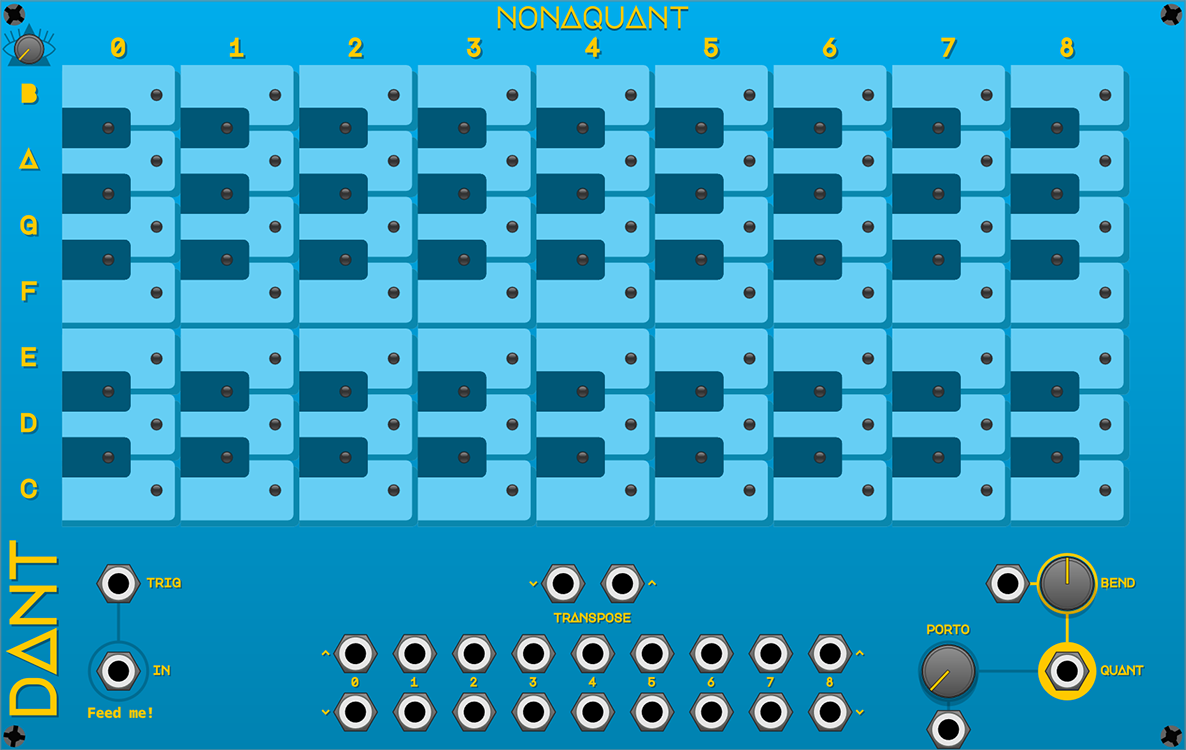
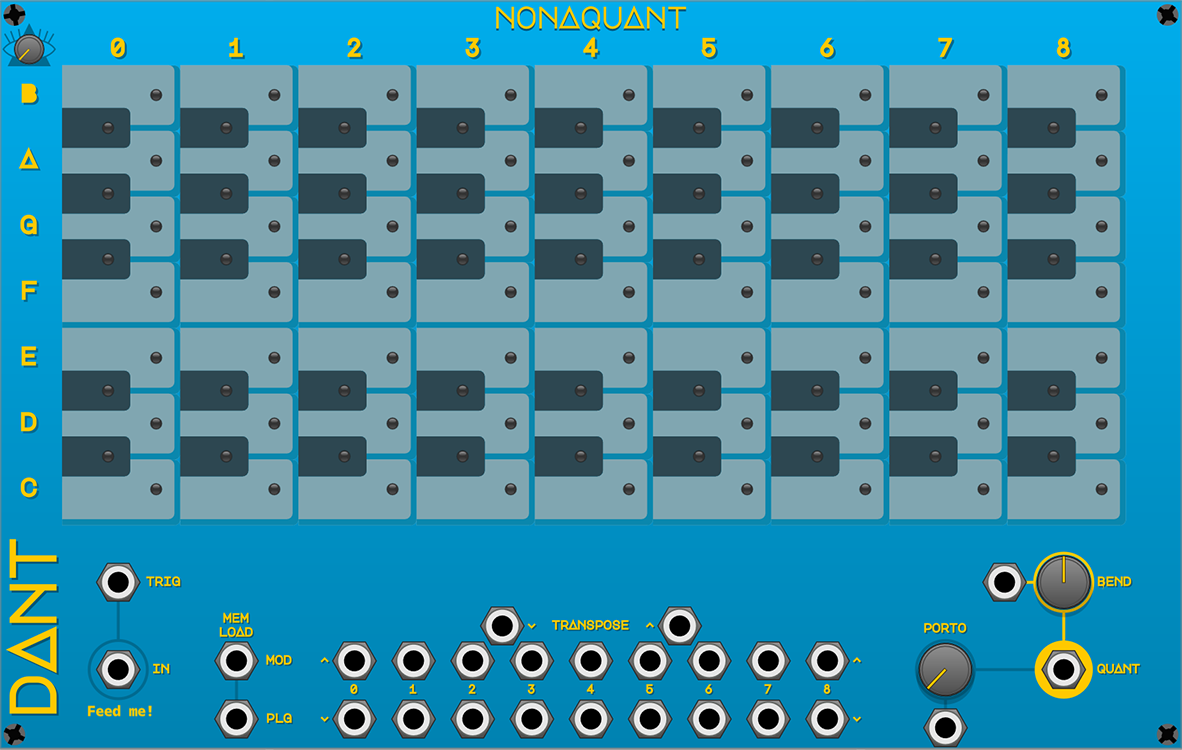
v2.3.3 docs update

diff --git a/README.md b/README.md
@@ -1,4 +1,13 @@
-# DanTModules v2.3.2
+# DanTModules v2.3.3
+
+* [Overview](#overview)
+* [Common Controls & Concepts](#common-controls--concepts)
+  * [Global Plugin Settings](#global-plugin-settings)
+  * [Themes](#themes)
+  * [CV Param Mode](#cv-param-mode)
+  * [CV Input Slew](#cv-input-slew)
+  * [Clamp CV Values](#clamp-cv-values)
+* [Modules](#modules)
 
 ![DanTModules](img/dantmodules.png)
 
@@ -14,6 +23,80 @@ I would love to see anything you create with this plugin, tag your creations wit
 
 If you feel generous or want to motivate me to further develop this plugin, you may [donate here](https://monzo.me/danieltilley2).
 
+## Common Controls & Concepts
+
+### Global Plugin Settings
+
+Some modules in the plugin have the ability to save a setting as default, this will determine its value when adding the module to a patch in future
+
+Settings like this will be saved to a `Rack2\DanTModules.json` file
+
+You can edit this file directly to change the default settings, though do ensure the edits are valid JSON
+
+You can also delete the file to reset the plugin defaults
+
+### Themes
+
+All modules in the plugin (except Chromakey) have a right-click context menu option where the module and plugin default theme can be selected
+
+The plugin default theme is saved to `DanTModules.json` under the key of `defaultTheme` with a value of `0` to `2`
+
+#### Objectively Blue
+
+This is the original and default yellow on blue theme of the plugin
+
+This themes settings value is `0`
+
+#### Superficially Deep
+
+This is an alternative darker theme of orange on navy
+
+This themes settings value is `1`
+
+![Superficially Deep Theme](img/dantmodules-deep.png)
+
+#### Magical CV
+
+This is a special theme of black on custom colour panels, where the panel colour is controlled by the [Chromagica](chromagica.md) module
+
+This themes settings value is `2`
+
+![Magical CV Theme](img/dantmodules-magic.png)
+
+### CV Param Mode
+
+The CV Param Mode controls how a CV signal input interacts with the related Parameter
+
+It has 3 different modes:
+
+#### Offset
+
+The CV signal is simply added to the current parameter value
+
+#### Follow
+
+The parameter value will be directly set to the CV signal value, causing the control to move autonomously, also meaning that the control cannot be changed by the user while the CV input is connected
+
+#### Attenuate
+
+The CV signal input will be attenuated by the current parameter value
+
+If the parameter is bi-polar then the value can be attenuverted
+
+### CV Input Slew
+
+This option allows a module to apply a slew to all of its CV inputs and can be used to prevent audio artifacts caused by abrupt changes in parameter values
+
+A slew value of `None` will disable this option, otherwise the slew length is set in milliseconds, from `1` to `100`
+
+### Clamp CV Values
+
+Depending on the [CV Param Mode](#cv-param-mode), the resulting value may fall outside the range of the parameter
+
+When this option is enabled, this value will be clamped to the parameter range
+
+Disabling this option will allow values to exceed their parameter ranges
+
 ## Modules
 
 * [WAVULIKE](wavulike.md)
@@ -24,3 +107,5 @@ If you feel generous or want to motivate me to further develop this plugin, you 
 * [Billy G8s](billyg8s.md)
 * [Bright Idea](brightidea.md)
 * [Nonaquant](nonaquant.md)
+* [Chromagica](chromagica.md)
+* [Chromakey](chromakey.md)

diff --git a/nonaquant.md b/nonaquant.md
@@ -2,6 +2,8 @@
 
 * [Overview](#overview)
 * [Basic Operation](#basic-operation)
+* [Memory Banks](#memory-banks)
+* [Note Readout](#note-readout)
 
 ## Overview
 
@@ -34,3 +36,27 @@ The `TRANSPOSE` inputs are all monophonic and activate on `> 0 volts` triggers
 The global `TRANSPOSE` will move all notes up or down, notes can move from one octave to the next
 
 The individual octave `TRANSPOSE` will move only the notes in that octave, notes that are moved past the top or bottom of the octave, will be lost
+
+## Memory Banks
+
+Nonaquant has 16 module & 16 plugin memory banks
+
+These banks store the set of active notes
+
+Module memory banks are per instance of Nonaquant, and are saved in the patch
+
+Plugin memory banks are shared between all instances of Nonaquant, and are saved in the `Rack2\DanTModules.json` file
+
+The right-click context menu has options that allow you to save the currently selected notes into a memory bank
+
+There are also options to manually load a memory bank, or clear all the currently selected notes
+
+There are two separate polyphonic inputs that allow you to load a specific memory bank, a trigger on a channel will immediately load the corresponding memory bank
+
+## Note Readout
+
+You can enable the note readout via the right-click context menu
+
+When enabled there will be a display below the keys that show the quantized note selected for each active channel in the format of `channelNumber[NoteName OctaveNumber]`
+
+![Note Readout](img/nonaquant-readout.png)

diff --git a/chromakey.md b/chromakey.md
@@ -1,0 +1,28 @@
+# Chromakey
+
+* [Overview](#overview)
+* [Basic Operation](#basic-operation)
+
+## Overview
+
+**variable-hp**
+
+Chromakey is a resizable & recolourable blank panel
+
+![Chromakey](img/chromakey.png)
+
+## Basic Operation
+
+Once added to a patch, Chromakey can be resized by dragging either side of the panel
+
+The context menu has an option that allows you to save the current width as the default
+
+By default, the panel colour will be set to the values of the [Chromagica](chromagica.md) module
+
+There is a context menu option that will allow you to lock in the current colour of the panel, so that further changes on the Chromagica module do not affect this instance of Chromakey
+
+The `Preset Colours` option provides a number of default colours that you can set the panel to, these also necessarily engage the colour lock
+
+When the `Bypass Room Brightness` option is enabled, the module will not be dimmed with the room brightness setting
+
+This module is designed to enable you to create chroma-key effects (aka green-screen) in video streaming or editing software

diff --git a/chromagica.md b/chromagica.md
@@ -1,0 +1,22 @@
+# Chromagica
+
+* [Overview](#overview)
+* [Basic Operation](#basic-operation)
+
+## Overview
+
+**2hp**
+
+Chromagica enables CV control over the **A**mount of **R**ed, **G**reen and **B**lue chroma used by the Magical CV theme
+
+![Chromagica](img/chromagica.png)
+
+## Basic Operation
+
+Use the 4 parameters to create the desired colour for the Magical CV theme
+
+Each parameters range is from `0%` to `100%`
+
+For the **R**, **G** & **B** parameters, `0% = 0` and `100% = 255`
+
+The **A** parameter is a multiplier for the other parameters, therefore it controls the brightness
